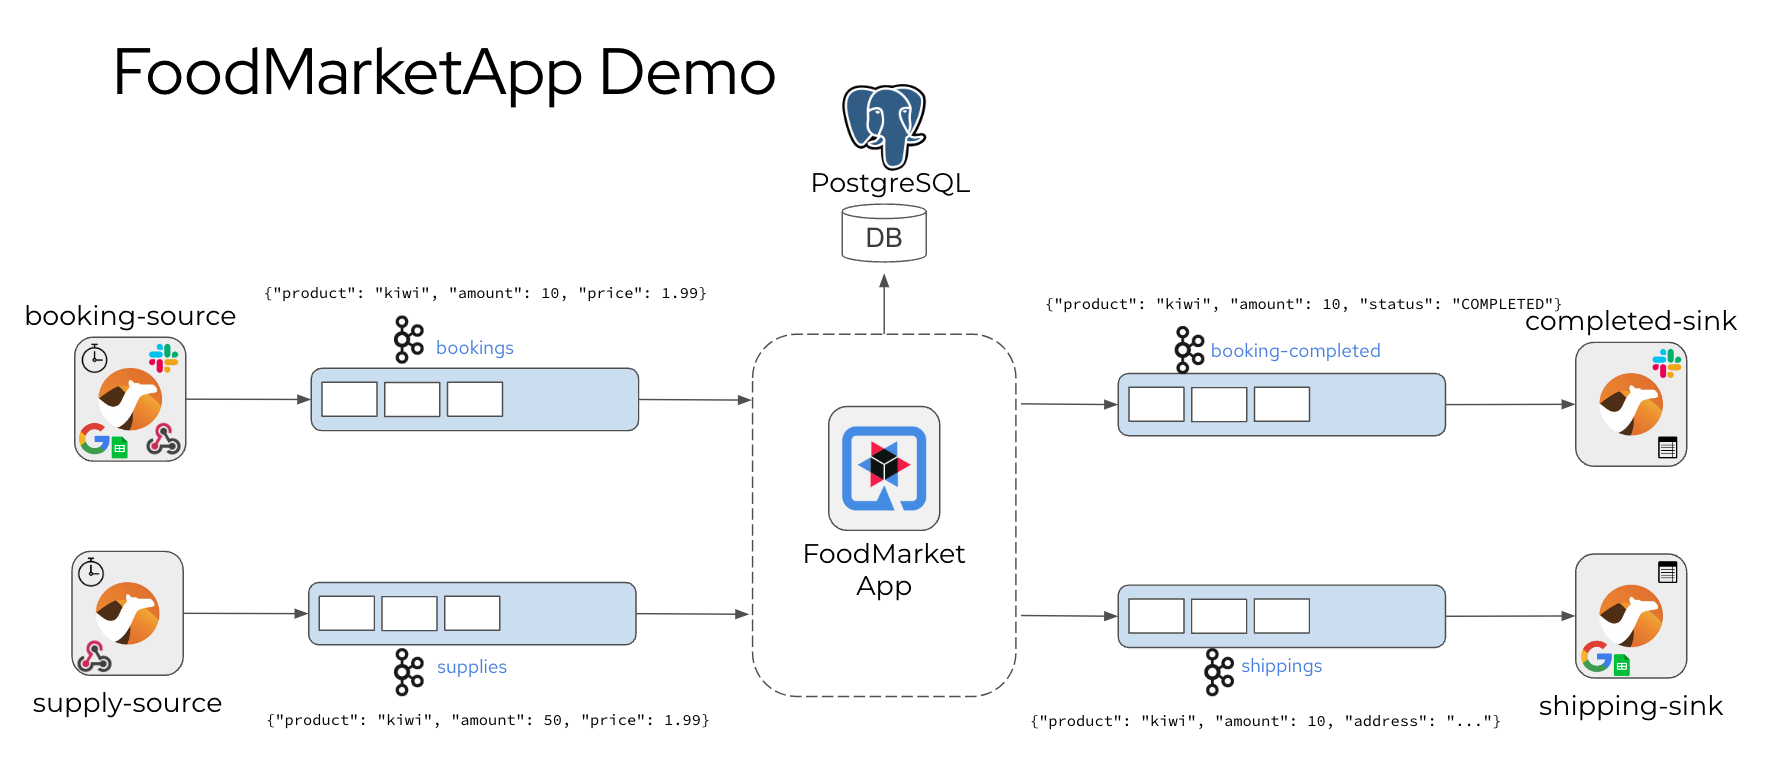
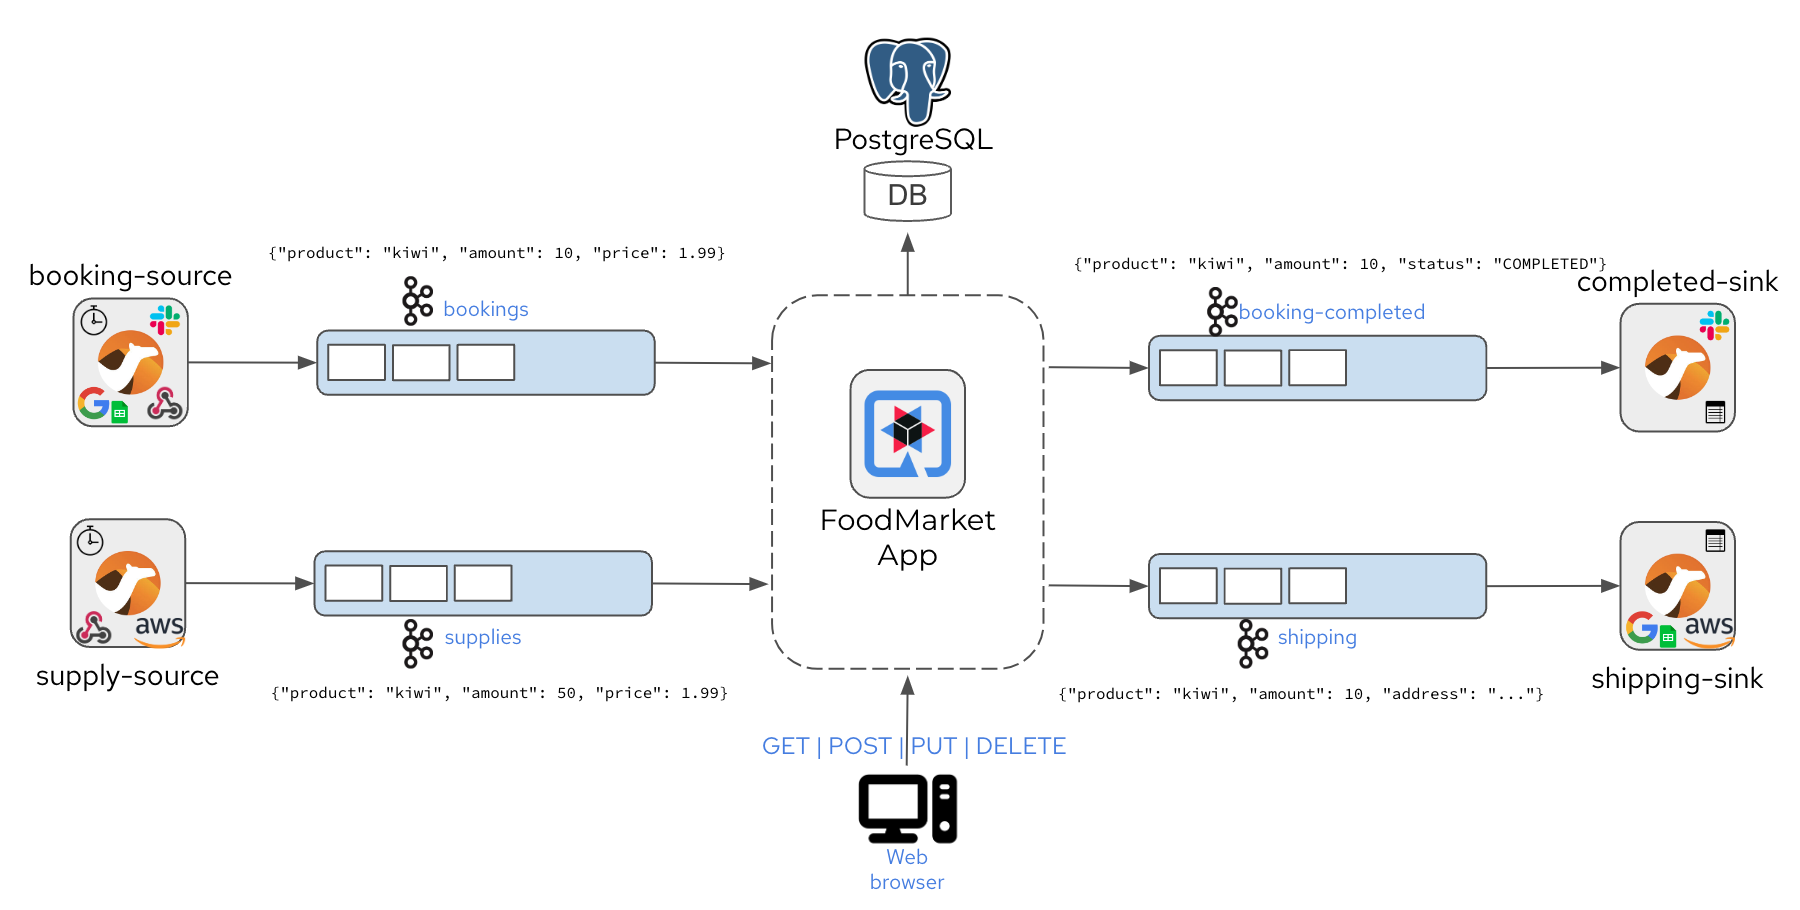
Enhance Quarkus sample project
- Add Selenium UI tests

diff --git a/demo/sample-quarkus/src/test/java/org/apache/camel/demo/FoodMarketUiTest.java b/demo/sample-quarkus/src/test/java/org/apache/camel/demo/FoodMarketUiTest.java
@@ -1,0 +1,176 @@
+/*
+ * Licensed to the Apache Software Foundation (ASF) under one or more
+ * contributor license agreements. See the NOTICE file distributed with
+ * this work for additional information regarding copyright ownership.
+ * The ASF licenses this file to You under the Apache License, Version 2.0
+ * (the "License"); you may not use this file except in compliance with
+ * the License.  You may obtain a copy of the License at
+ *
+ *      http://www.apache.org/licenses/LICENSE-2.0
+ *
+ * Unless required by applicable law or agreed to in writing, software
+ * distributed under the License is distributed on an "AS IS" BASIS,
+ * WITHOUT WARRANTIES OR CONDITIONS OF ANY KIND, either express or implied.
+ * See the License for the specific language governing permissions and
+ * limitations under the License.
+ */
+
+package org.apache.camel.demo;
+
+import io.quarkus.test.junit.QuarkusTest;
+import org.apache.camel.demo.model.Booking;
+import org.apache.camel.demo.model.Product;
+import org.citrusframework.TestCaseRunner;
+import org.citrusframework.annotations.CitrusConfiguration;
+import org.citrusframework.annotations.CitrusEndpoint;
+import org.citrusframework.annotations.CitrusResource;
+import org.citrusframework.quarkus.CitrusSupport;
+import org.citrusframework.selenium.endpoint.SeleniumBrowser;
+import org.junit.jupiter.api.Test;
+import org.openqa.selenium.By;
+
+import static org.citrusframework.container.FinallySequence.Builder.doFinally;
+import static org.citrusframework.selenium.actions.SeleniumActionBuilder.selenium;
+
+@QuarkusTest
+@CitrusSupport
+@CitrusConfiguration(classes = { CitrusEndpointConfig.class })
+class FoodMarketUiTest {
+
+    @CitrusEndpoint
+    private SeleniumBrowser browser;
+
+    @CitrusResource
+    private TestCaseRunner t;
+
+    private final String homeUrl = "http://localhost:8081";;
+
+    @Test
+    void indexPage() {
+        t.given(selenium()
+                .browser(browser)
+                .start());
+
+        t.given(doFinally().actions(
+                selenium()
+                    .browser(browser)
+                    .stop()));
+
+        t.when(selenium()
+                .browser(browser)
+                .navigate(homeUrl));
+
+        t.then(selenium()
+                .browser(browser)
+                .find()
+                .element(By.tagName("h1"))
+                .text("Food Market demo"));
+    }
+
+    @Test
+    void shouldCreateBooking() {
+        Product product = new Product("Peach");
+        Booking booking = new Booking("browser_client", product, 50, 0.99D);
+
+        t.given(selenium()
+                .browser(browser)
+                .start());
+
+        t.given(doFinally().actions(
+                selenium()
+                    .browser(browser)
+                    .stop()));
+
+        t.when(selenium()
+                .browser(browser)
+                .navigate(homeUrl));
+
+        t.then(selenium()
+                .browser(browser)
+                .select("booking")
+                .element(By.id("type")));
+
+        t.then(selenium()
+                .browser(browser)
+                .setInput()
+                .element(By.id("name"))
+                .value(booking.getClient()));
+
+        t.then(selenium()
+                .browser(browser)
+                .setInput()
+                .element(By.id("product"))
+                .value(booking.getProduct().getName()));
+
+        t.then(selenium()
+                .browser(browser)
+                .setInput()
+                .element(By.id("amount"))
+                .value(booking.getAmount().toString()));
+
+        t.then(selenium()
+                .browser(browser)
+                .setInput()
+                .element(By.id("price"))
+                .value(booking.getPrice().toString()));
+
+        t.then(selenium()
+                .browser(browser)
+                .click()
+                .element(By.id("save")));
+    }
+
+    @Test
+    void shouldCreateSupply() {
+        Product product = new Product("Peach");
+        Booking booking = new Booking("browser_client", product, 50, 0.99D);
+
+        t.given(selenium()
+                .browser(browser)
+                .start());
+
+        t.given(doFinally().actions(
+                selenium()
+                        .browser(browser)
+                        .stop()));
+
+        t.when(selenium()
+                .browser(browser)
+                .navigate(homeUrl));
+
+        t.then(selenium()
+                .browser(browser)
+                .select("supply")
+                .element(By.id("type")));
+
+        t.then(selenium()
+                .browser(browser)
+                .setInput()
+                .element(By.id("name"))
+                .value(booking.getClient()));
+
+        t.then(selenium()
+                .browser(browser)
+                .setInput()
+                .element(By.id("product"))
+                .value(booking.getProduct().getName()));
+
+        t.then(selenium()
+                .browser(browser)
+                .setInput()
+                .element(By.id("amount"))
+                .value(booking.getAmount().toString()));
+
+        t.then(selenium()
+                .browser(browser)
+                .setInput()
+                .element(By.id("price"))
+                .value(booking.getPrice().toString()));
+
+        t.then(selenium()
+                .browser(browser)
+                .click()
+                .element(By.id("save")));
+    }
+
+}

diff --git a/demo/sample-quarkus/src/test/java/org/apache/camel/demo/CitrusEndpointConfig.java b/demo/sample-quarkus/src/test/java/org/apache/camel/demo/CitrusEndpointConfig.java
@@ -13,7 +13,10 @@ import org.citrusframework.container.AfterSuite;
 import org.citrusframework.http.client.HttpClient;
 import org.citrusframework.kafka.endpoint.KafkaEndpoint;
 import org.citrusframework.mail.server.MailServer;
+import org.citrusframework.selenium.endpoint.SeleniumBrowser;
+import org.citrusframework.selenium.endpoint.SeleniumBrowserBuilder;
 import org.citrusframework.spi.BindToRegistry;
+import org.openqa.selenium.remote.Browser;
 
 import static org.citrusframework.actions.StopServerAction.Builder.stop;
 import static org.citrusframework.container.SequenceAfterSuite.Builder.afterSuite;
@@ -28,7 +31,7 @@ public class CitrusEndpointConfig {
     @BindToRegistry
     public HttpClient httpClient() {
         return http().client()
-                .requestUrl("http://localhost:8081/api")
+                .requestUrl("http://localhost:8081")
                 .build();
     }
 
@@ -98,6 +101,13 @@ public class CitrusEndpointConfig {
                 .enable(MapperFeature.BLOCK_UNSAFE_POLYMORPHIC_BASE_TYPES)
                 .build()
                 .setDefaultPropertyInclusion(JsonInclude.Value.construct(JsonInclude.Include.NON_EMPTY, JsonInclude.Include.NON_EMPTY));
+    }
+
+    @BindToRegistry
+    public SeleniumBrowser browser() {
+        return new SeleniumBrowserBuilder()
+                .type(Browser.HTMLUNIT.browserName())
+                .build();
     }
 
     @BindToRegistry

diff --git a/demo/sample-quarkus/src/test/java/org/apache/camel/demo/FoodMarketRestApiTest.java b/demo/sample-quarkus/src/test/java/org/apache/camel/demo/FoodMarketRestApiTest.java
@@ -42,7 +42,7 @@ import static org.citrusframework.http.actions.HttpActionBuilder.http;
 @QuarkusTest
 @CitrusSupport
 @CitrusConfiguration(classes = { CitrusEndpointConfig.class })
-class FoodMarketApiResourceTest {
+class FoodMarketRestApiTest {
 
     @CitrusEndpoint
     private HttpClient httpClient;
@@ -60,7 +60,7 @@ class FoodMarketApiResourceTest {
         t.when(http()
                 .client(httpClient)
                 .send()
-                .post("/bookings")
+                .post("/api/bookings")
                 .message()
                 .contentType(APPLICATION_JSON)
                 .body(marshal(booking)));
@@ -86,7 +86,7 @@ class FoodMarketApiResourceTest {
         t.when(http()
                 .client(httpClient)
                 .send()
-                .post("/supplies")
+                .post("/api/supplies")
                 .message()
                 .contentType(APPLICATION_JSON)
                 .body(marshal(supply)));

diff --git a/demo/sample-quarkus/src/test/java/org/apache/camel/demo/FoodMarketEventingTest.java b/demo/sample-quarkus/src/test/java/org/apache/camel/demo/FoodMarketEventingTest.java
@@ -48,7 +48,7 @@ import static org.citrusframework.dsl.JsonSupport.marshal;
 @QuarkusTest
 @CitrusSupport
 @CitrusConfiguration(classes = { CitrusEndpointConfig.class })
-class FoodMarketApplicationTest {
+class FoodMarketEventingTest {
 
     @CitrusEndpoint
     private KafkaEndpoint products;
